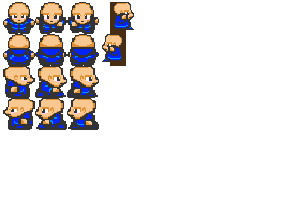
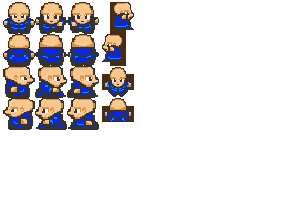
added some textures
ground floor isn't finished
if you find some mistakes please tell me so I can repair them/repair them yourself if you want

Changed region(s): [[0.3367, 0.3267, 0.4592, 0.6238]]

diff --git a/config.py b/config.py
@@ -17,7 +17,7 @@ BLOCK_LAYER: int = 2
 GROUND_LAYER: int = 1
 
 # Speeds
-PLAYER_SPEED: int = 10
+PLAYER_SPEED: int = 5
 NPC_SPEED: int = 3
 
 # Colors
@@ -94,29 +94,29 @@ ground_floor: List[str] = [
 first_floor: List[str] = [
     "______________________________________________________________________________________________________________________________________________________________________WWwwwWWWWWWWWWWWWWWWWWWWWWW",
     "______________________________________________________________________________________________________________________________________________________________________W......W..................W",
-    "______________________________________________________________________________________________________________________________________________________________________W......W....jjjjjjjjjjjjjjW",
+    "______________________________________________________________________________________________________________________________________________________________________W......W......ninininininiW",
     "______________________________________________________________________________________________________________________________________________________________________W......W..................w",
-    "______________________________________________________________________________________________________________________________________________________________________W......W....jjjjjjjjjjjjjjW",
+    "______________________________________________________________________________________________________________________________________________________________________W......W......ninininininiW",
     "______________________________________________________________________________________________________________________________________________________________________W......W..................W",
-    "______________________________________________________________________________________________________________________________________________________________________W......D....jjjjjjjjjjjjjjw",
+    "______________________________________________________________________________________________________________________________________________________________________W......D......ninininininiW",
     "______________________________________________________________________________________________________________________________________________________________________WWWDWWWWt.................W",
     "______________________________________________________________________________________________________________________________________________________________________w......WWWWDWWWWWWWWWWWWWWW",
     "______________________________________________________________________________________________________________________________________________________________________w......W..................w",
-    "WWWWWwwWWWWWWWWwwWWWWWWwWWWWWwWWWWWwWWWWWwWWWWWwwWWWWWWWwWwWwWWWWWWwwwWWWwwwWWWWWWwWWwWWwWWwWWwWWWWWWWWWWWWWWWWWWWWWWWWWWWWWWWWWWWWWWWWWWWWWWWWWWWWWWWWWWWWWWWWWWWWWWWW......W....jjjjjjjjjjjjjjW",
-    "W..........W........W.....W.....W.....W.....W!!!!!!!!!!!!!!!W...l..l..l..l..l..W...l..l..l..l....W................W...l..l..l..l..l..W.........W...l..l..l..l...W.....W......w..................w",
-    "W..........W........W.....W.....W.....W.....W!!!!!!!!!!!!!!!W...l..l..l..l..l..W...l..l..l..l..l.W................W...l..l..l..l..l..W.........W...l..l..l..l...W.....D......G....jjjjjjjjjjjjjjW",
-    "W..........W........W.....W.....W.....W.....W!!!!!!!!!!!!!!!W..................W...............l.W................W..................W.........W..............l.WDW...W......G..................w",
-    "W..........W........W.....W.....W.....W.....W!!!!!!!!!!!!!!!W..................W...............l.W................W..................W.........W..............l.W.W...W......w....jjjjjjjjjjjjjjW",
-    "w..........W........W.....W.....W.....W.....W!!!!!!!!!!!!!!!W..l..l..l..l..l...W..l..l..l..l...l.W................W....l..l..l..l....W.........W..l..l..l..l.l..WŤW...W......W..................W",
-    "w..........W........W.....W..l..W..l..W..l..WZZZZZZZrzzzzzzzW..l..l..l..l..l...W..l..l..l..l.....W................W....l..l..l..l....W.........W..l..l..l..l.l..WWWWWWW......WWWWWWWWWWWWWWWWWWWW",
-    "W..........W........W.....W.....W.....W.....WZZZZZZZrzzzzzzzW..................W.................W................W..................W.........W................W.....W......W.................Lw",
-    "W..........W........W.....W.....W.....W.....WZZZZZZZrzzzzzzzW..................W.................W................W..................W.........W................W.....W......D..................w",
-    "w..........W........W.....W.....W.....W.....WZZZZZZZrzzzzzzzW...l..l..l..l..l..W...l..l..l..l....W..N.............W..................W.........W................W.....W......W..................W",
-    "w..........W........W.....W.....W.....W.....WZZZZZZZrzzzzzzzW...l..l..l..l..l..W...l..l..l..l....W................W...l..l..l..l..l..W.........W...l..l..l..l...W.....W......WWWWWWWWWWWWWWWWWWWW",
-    "W..........W........W.....W.....W.....W.....WZZZZZZZrzzzzzzzW..................W.................D................W...l..l..l..l..l..W.........W...l..l..l..l...WWWWWWW..............sssssssssssW",
+    "WWWWWwwWWWWWWWWwwWWWWWWwWWWWWwWWWWWwWWWWWwWWWWWwwWWWWWWWwWwWwWWWWWWwwwWWWwwwWWWWWWwWWwWWwWWwWWwWWWWWWWWWWWWWWWWWWWWWWWWWWWWWWWWWWWWWWWWWWWWWWWWWWWWWWWWWWWWWWWWWWWWWWWW......W......mjmjmjmjmjmjW",
+    "W..........W........W.....W.....W.....W.....W!!!!!!!!!!!!!!!W..u..u..u..u..u...W...u..u..u..u....W................W...u..u..u..u.....W.........W...u..u..u..u...W.....W......w..................w",
+    "W..........W........W.....W.....W.....W.....W!!!!!!!!!!!!!!!W..u..u..u..u..u...W...u..u..u..u....W................W...u..u..u..u.....W.........W...u..u..u..u...W.....D......G......mjmjmjmjmjmjW",
+    "W..........W........W.....W.....W.....W.....W!!!!!!!!!!!!!!!W..................W.................W................W..................W.........W................WDW...W......G..................w",
+    "W..........W........W.....W.....W.....W.....W!!!!!!!!!!!!!!!W................k.W...............k.W................W...............k..W.........W..............k.W.W...W......w......mjmjmjmjmjmjW",
+    "w..........W........W.....W.....W.....W.....W!!!!!!!!!!!!!!!W..u..u..u..u..u.k.W...u..u..u..u..k.W................W...u..u..u..u..k..W.........W...u..u..u..u.k.WŤW...W......W..................W",
+    "w..........W........W.....W..l..W..l..W..l..WZZZZZZZrzzzzzzzW..u..u..u..u..u.l.W...u..u..u..u..l.W................W...u..u..u..u..l..W.........W...u..u..u..u.l.WWWWWWW......WWWWWWWWWWWWWWWWWWWW",
+    "W..........W........W.....W.....W.....W.....WZZZZZZZrzzzzzzzW..u..u..u..u..u.k.W...u..u..u..u..k.W................W...u..u..u..u..k..W.........W...u..u..u..u.k.W.....W......W.................Lw",
+    "W..........W........W.....W.....W.....W.....WZZZZZZZrzzzzzzzW................k.W...............k.W................W...............k..W.........W..............k.W.....W......D..................w",
+    "w..........W........W.....W.....W.....W.....WZZZZZZZrzzzzzzzW..................W.................W..N.............W..................W.........W................W.....W......W..................W",
+    "w..........W........W.....W.....W.....W.....WZZZZZZZrzzzzzzzW..u..u..u..u..u...W...u..u..u..u....W................W...u..u..u..u.....W.........W...u..u..u..u...W.....W......WWWWWWWWWWWWWWWWWWWW",
+    "W..........W........W.....W.....W.....W.....WZZZZZZZrzzzzzzzW..u..u..u..u..u...W...u..u..u..u....D................W...u..u..u..u.....W.........W...u..u..u..u...WWWWWWW..............sssssssssssW",
     "W..........W........W.....W.....W.....W.....WZZZZZZZrzzzzzzzW..................W.................W................W..................W.........W................W.....W..............sssssssssssW",
     "W..........W........W.....W.....W.....W.....WZZZZZZZrzzzzzzzW.................tWt................W...............tWt.................W.........W................W.....W.............PsssssssssssW",
-    "W..........WWWWWWWWWWWWDWWWWWDWWWWWDWWWWWDWWWZZZZZZZrzzzzzzzWWWWWWWWWWWWWWWWDWWWWWWWWWWWWWWWWDWWWWWWWWWWWWWWWDWWWWWWWWWWWWWWWWWWDWWWWWWWDWWWWWWWWWWWWWWWWWWDWWWWWWWWWWWt.............sssssssssssW",
+    "W..........WWWWWWWWWWWWDWWWWWDWWWWWDWWWWWDWWWZZZZZZZrzzzzzzzWWWWWWWWWWWWWWWWDWWWWWWWWWWWWWWWWDWWWWWWWWWWWWWWWDWWWWWWWWWWWWWWWWWWDWWWWWWWDWWWWWWWWWWWWWWWWWWWWDWWWWWWWWWt.............sssssssssssW",
     "W..........W.........................................................................................................................................................................RRRRRRRRRRRW",
     "w..........W.........................................................................................................................................................................SSSSSSSSSSSw",
     "w..........D.........................................................................................................................................................................SSSSSSSSSSSW",
@@ -129,8 +129,8 @@ first_floor: List[str] = [
     "w..........W..........W.....W...W...W...W...W..........................W......W.....Wo..............ÓW.....W.......W.......W.............W.............W...W..........l..l..l..l..l..l..l..WWWWWW",
     "w..........W..........W.....W...W...W...W...W..........................W......W.....Wo..............ÓW.....W.......W.......W.............W.............W...W..........l..l..l..l..l..l..l..W?????",
     "W..........W..........W.....W...W...W...W...W..........................W......W.....Wo.....................W.......W.......W.............W.............W...W...............................W?????",
-    "W..........W..........W.....W...W...W...W...W..........................W......W.....Wo.....................W.......W.......W.............W.............W...W...l...l..l..l..l..l..l..l..l..W?????",
-    "Wt.........W..........W.....W...W...W...W...W.........................tW......W.....WOOOOOOOOOOOOOOOOW.....W.......W.......W.............W.............W...Wt..l...l..l..l..l..l..l..l..l..W?????",
+    "W..........W..........W.....W...W...W...W...W..........................W......W.....Wo.....................W.......W.......W.............W.............W...W...u...l..l..l..l..l..l..l..l..W?????",
+    "Wt.........W..........W.....W...W...W...W...W.........................tW......W.....WOOOOOOOOOOOOOOOOW.....W.......W.......W.............W.............W...Wt..e...l..l..l..l..l..l..l..l..W?????",
     "WWWWWWWWWWWWWWWWWWWWWWWWWWWWWWwWWWwWWWwWWWwWWWWwwWWWwwWWWwwWWWwwWWWwwWWWWWwwWWWWwwwWWWWWwwwwWWwwwwWWwwwwWWWWWWwwwWWWWWwwwWWWWWWwwWWWwwWWWWWWWwwWWWWwwWWWWwWWWWwwWWWWwwWWWwwWWWWwwWWWWwwWWWWW?????",
 ]
 
@@ -138,44 +138,44 @@ first_floor: List[str] = [
 second_floor: List[str] = [
     "______________________________________________________________________________________________________________________________________________________________________WWwwwWWWWWWWWWWWWWWWWWWWWWW",
     "______________________________________________________________________________________________________________________________________________________________________W.........................W",
-    "______________________________________________________________________________________________________________________________________________________________________W......Wjjjjjjj....jjjjjjjW",
+    "______________________________________________________________________________________________________________________________________________________________________W......Wininini....inininiW",
     "______________________________________________________________________________________________________________________________________________________________________W.........................W",
-    "______________________________________________________________________________________________________________________________________________________________________W..................jjjjjjjW",
-    "______________________________________________________________________________________________________________________________________________________________________W......Wjjjjjjj...........W",
+    "______________________________________________________________________________________________________________________________________________________________________W..................inininiW",
+    "______________________________________________________________________________________________________________________________________________________________________W......Wininini...........W",
     "______________________________________________________________________________________________________________________________________________________________________W.........................W",
-    "______________________________________________________________________________________________________________________________________________________________________W..................jjjjjjjw",
-    "______________________________________________________________________________________________________________________________________________________________________W......Wjjjjjjj...........W",
+    "______________________________________________________________________________________________________________________________________________________________________W..................inininiw",
+    "______________________________________________________________________________________________________________________________________________________________________W......Wininini...........W",
     "______________________________________________________________________________________________________________________________________________________________________W.........................W",
-    "______________________________________________________________________________________________________________________________________________________________________W..................jjjjjjjw",
-    "______________________________________________________________________________________________________________________________________________________________________W......Wjjjjjjj...........W",
-    "______________________________________________________________________________________________________________________________________________________________________Wt...................jjjjjW",
+    "______________________________________________________________________________________________________________________________________________________________________W..................inininiw",
+    "______________________________________________________________________________________________________________________________________________________________________W......Wininini...........W",
+    "______________________________________________________________________________________________________________________________________________________________________Wt...................mmjmmW",
     "______________________________________________________________________________________________________________________________________________________________________w.........................w",
     "WWWWWwwWWWWWWWWwwWWWWWWwWWWWWwWWWWWwWWWWWwWWWWWwwWWWWWWWwWwWwWWWWWWwwwWWWwwwWWWWWWwWWwWWwWWwWWwWWWWWWWWWWWWWWWWWWWWWWWWWWWWWWWWWWWWWWWWWWWWWWWWWWWWWWWWWWWWWWWWWWWWWWWWWWDWWWWWWWWWWWWWWWWWWWWWWW",
-    "W..........W..l..l..l..l.W.l..l..l..l..l..l.W!!!!!!!!!!!!!!!W.l..l..l..l..l....W..l..l..l..l.....W................W..l..l..l..l......Wt........W.l..l..l..l.....W.....W......W..................W",
-    "Wjj........W..l..l..l..l.W.l..l..l..l..l..l.W!!!!!!!!!!!!!!!W.l..l..l..l..l....W..l..l..l..l.....W................W..l..l..l..l......W.........W.l..l..l..l.....WDW...D......W..................w",
-    "W........jjW.............W..................W!!!!!!!!!!!!!!!W..................W.................W................W..................W.........W................W.W...W......W..................w",
-    "wjj........W.............W..................W!!!!!!!!!!!!!!!W..................W.................W................W..................W.........W................WŤW...W......W..................W",
-    "W..........W..l..l..l....W.l..l..l..l..l....WZZZZZZZŔzzzzzzzW.l..l..l..l..l....W..l..l..l..l.....W................W..l..l..l..l......W.........W.l..l..l..l.....WWWWWWW......D..................w",
-    "wjj......jjW..l..l..l....W.l..l..l..l..l....WZZZZZZZŔzzzzzzzW.l..l..l..l..l....W..l..l..l..l.....W................W..l..l..l..l......W.........W.l..l..l..l.....W.....D......W..................W",
+    "W..........W..u..u..u..k.W.u..u..u..u..u..k.W!!!!!!!!!!!!!!!W.u..u..u..u..u.k..W..u..u..u..u..k..W................W..u..u..u..u...k..Wt........W.u..u..u..u..k..W.....W......W..................W",
+    "Wmm........W..u..u..u..l.W.u..u..u..u..u..l.W!!!!!!!!!!!!!!!W.u..u..u..u..u.l..W..u..u..u..u..l..W................W..u..u..u..u...l..W.........W.u..u..u..u..l..WDW...D......W..................w",
+    "W........mmW.............W..................W!!!!!!!!!!!!!!!W..................W.................W................W..................W.........W................W.W...W......W..................w",
+    "wmm........W.............W..................W!!!!!!!!!!!!!!!W..................W.................W................W..................W.........W................WŤW...W......W..................W",
+    "W..........W..u..u..u....W.u..u..u..u..u....WZZZZZZZŔzzzzzzzW.u..u..u..u..u....W..u..u..u..u.....W................W..u..u..u..u......W.........W.u..u..u..u.....WWWWWWW......D..................w",
+    "wmm......mmW..u..u..u....W.u..u..u..u..u....WZZZZZZZŔzzzzzzzW.u..u..u..u..u....W..u..u..u..u.....W................W..u..u..u..u......W.........W.u..u..u..u.....W.....D......W..................W",
     "w..........W.............W..................WZZZZZZZŔzzzzzzzW..................W.................W................W..................W.........W................W.....W......WWWWWWWWWWWWWWWWWWWW",
     "WWWWWWWWDWWW.............W..................WZZZZZZZŔzzzzzzzW..................W.................W................W..................W.........W................WWWWWWW..............sssssssssssW",
-    "W..........W..l..l..l....W.l..l..l..l..l....WZZZZZZZŔzzzzzzzW.l..l..l..l..l....W..l..l..l..l.....W................W..l..l..l..l......W.........W.l..l..l..l.....W.....W..............sssssssssssW",
-    "Wjjj.......W..l..l..l....W.l..l..l..l..l...tWZZZZZZZŔzzzzzzzW.l..l..l..l..l...tW..l..l..l..l....tW...............tW..l..l..l..l.....tW.........W.l..l..l..l.....W.... W.............PsssssssssssW",
+    "W..........W..u..u..u....W.u..u..u..u..u....WZZZZZZZŔzzzzzzzW.u..u..u..u..u....W..u..u..u..u.....W................W..u..u..u..u......W.........W.u..u..u..u.....W.....W..............sssssssssssW",
+    "Wmmm.......W..u..u..u....W.u..u..u..u..u...tWZZZZZZZŔzzzzzzzW.u..u..u..u..u...tW..u..u..u..u....tW...............tW..u..u..u..u.....tW.........W.u..u..u..u.....W.... W.............PsssssssssssW",
     "W..........WWWWWWWWWWWWDWWWWWWWWWWWWWWWWWDWWWŘŘŘŘŘŘŘŕzzzzzzzWWWWWWWWWWWWWWWWDWWWWWWWWWWWWWWWWDWWWWwwwwwwwwwwGGwwwwWWWWWWWWWWWWWWDWWWWWWWWWDWWWWWWWWWWWWWWWWWWDWWWWWWWWWt.............sssssssssssW",
     "W..........W.........................................................................................................................................................................RRRRRRRRRRRW",
-    "wjj.....jj.W.........................................................................................................................................................................SSSSSSSSSSSw",
+    "wjjj...jjj.W.........................................................................................................................................................................SSSSSSSSSSSw",
     "w..........D.........................................................................................................................................................................SSSSSSSSSSSW",
     "W..........W.........................................................................................................................................................................SSSSSSSSSSSw",
-    "Wjj.....jj.W.........................................................................................................................................................................SSSSSSSSSSSW",
+    "Wjjj...jjj.W.........................................................................................................................................................................SSSSSSSSSSSW",
     "w..........WWWWWDWWWWWWWWWWWWWWWWWWWDWWWDWWWWW....................WWWDWWWWWWDWWWWWDWWWWWWWWWWDWWWWWDWWWWWWWWWWDWWWWWWDWWWWWWWWWWWWWWWWWWWWWDWWWWWWWWWWWWWWWWWWDWWWWWWWWWWWWWWWWWWWWWWWWWWWWWWWWWW",
     "w..........W......l..l..l..l..l..W....W..WTWTW...................!W......W.....W.........W.......W......W.........W.....l..l..l..l...W......l..l..l..l...W.........l..l..l..l..l..l..l.....W....W",
-    "Wjj.....jj.W......l..l..l..l..l..W....W..W.W.W....................W......W.....W.........W.......W......W.........W.....l..l..l..l...W......l..l..l..l...W.........l..l..l..l..l..l..l.....D....W",
+    "Wjjj...jjj.W......l..l..l..l..l..W....W..W.W.W....................W......W.....W.........W.......W......W.........W.....l..l..l..l...W......l..l..l..l...W.........l..l..l..l..l..l..l.....D....W",
     "W..........W.....................W....W..WDWDW....................W......W.....W.........W.......W......W.........W..................W...................W.................................W....W",
     "w..........W.....................W....W......W.!....!.....!.....!.W......W.....W.........W.......W......W.........W..................W...................W.................................WWWWWW",
-    "wjj.....jj.W.......l..l..l..l....W....W......W.!....!.....!.....!.W......W.....W.........W.......W......W.........W..................W...................W.................................W?????",
+    "wjjj...jjj.W.......l..l..l..l....W....W......W.!....!.....!.....!.W......W.....W.........W.......W......W.........W..................W...................W.................................W?????",
     "w..........W.......l..l..l..l....W....W......W.!....!.....!.....!.W......W.....W.........W.......W......W.........W..................W...................W.N...............................W?????",
-    "W..........W..l..................W....W......W.!!!!!.......!!!!!..W......W.....W.........W.......W......W.........W.....l..l..l..l...W....l..l..l..l..l..W...l.....l..l..l..l..l..l..l.....W?????",
-    "Wt.........W..l..................W....W......W...................tW......W.....W.........W.......W......W.........W.....l..l..l..l...W....l..l..l..l..l..W...l.....l..l..l..l..l..l..l..WWWW?????",
+    "W..........W..k..................W....W......W.!!!!!.......!!!!!..W......W.....W.........W.......W......W.........W.....l..l..l..l...W....l..l..l..l..l..W...u.....l..l..l..l..l..l..l.....W?????",
+    "Wt.........W..k..................W....W......W...................tW......W.....W.........W.......W......W.........W.....l..l..l..l...W....l..l..l..l..l..W...e.....l..l..l..l..l..l..l..WWWW?????",
     "WWWWwwWWWWWWWWwwWWWWWWWWWWWWWWwWWWWWwWWWWWwWWWWwwWWWwwWWWwwWWWwwWWWwwWWWWWWwWWWWWwwWWWwwwWWWwwWwWWwwwwWWWWWWwwwWWWWWwwwWWWWWWwwWWWwwWWWWWWWwwWWWWwwWWWWwWWWWwwWWWWwwWWWwwWWWWwwWWWwwWWWWWWWW?????",
 ]
 
@@ -213,17 +213,17 @@ third_floor: List[str] = [
 
 # Fourth floor
 fourth_floor: List[str] = [
-    "WWWWWWWWWWWWWwwWWWWwwwWWwwwWWwwwWWwwwWWwwwWWwwwWWwwwWWWWWWwwwWWWWWWWWWWWWWWWWWWWWWWW",
-    "W..........W.!jj!....jjjjjjjjjjjjjjjjjjjjjjjjjjj..l...W.........W..................W",
-    "W..........W.l..l.................................g...W.........W..................W",
-    "W..........W.!jj!.....................................W.........W..................W",
-    "W..........D..........................................W.........W..................W",
-    "W..........W.........jjjjjjjjjjjjjjjjjjjjjjjjjjjjj....D.........W..................W",
-    "WWWWWWWWWWWWWWWWWWWWWWWWWWWWWWWWWWWWWWWWWWWWWWWWWWWWWWW.........W..................W",
+    "?????????WWWWWWWWWWWWWwwWWWWwwwwWWwwwWWwwwWWwwwWWwwwWWWWWWwwwWWWWWWWWWWWWWWWWWWWWWWW",
+    "?????????W..........W.!m!.....jmjmjmjmjmjmjmjmjmj.k...W.........W..................W",
+    "?????????W..........W.k.k.........................g...W.........W..................W",
+    "?????????W..........W.!m!.............................W.........W..................W",
+    "?????????W..........D.................................W.........W..................W",
+    "?????????W..........W.........ininininininininini.....D.........W..................W",
+    "?????????WWWWWWWWWWWWWWWWWWWWWWWWWWWWWWWWWWWWWWWWWWWWWW.........W..................W",
     "??????????????????????????????????????????????????????Wt........WWWWDWWWWWWWWWWWWWWW",
     "??????????????????????????????????????????????????????W........D........sssssssssssW",
     "??????????????????????????????????????????????????????WWWWWWWWW.........sssssssssssW",
-    "??????????????????????????????????????????????????????Wjjjjjjjj........PsssssssssssW",
+    "??????????????????????????????????????????????????????Whhhhhhhh........PsssssssssssW",
     "??????????????????????????????????????????????????????WB................sssssssssssW",
     "??????????????????????????????????????????????????????WB................|//////////W",
     "??????????????????????????????????????????????????????WB................ř!!!!!!!!!!w",
@@ -232,13 +232,13 @@ fourth_floor: List[str] = [
     "??????????????????????????????????????????????????????Wt................ř!!!!!!!!!!W",
     "??????????????????????????????????????????????????????WWWWWWWWDWWWWWWWWWWWWWWWWWWWWW",
     "??????????????????????????????????????????????????????W........l..l..l..l..l..l...!W",
-    "??????????????????????????????????????????????????????W........l..l..l..l..l..l...!W",
+    "??????????????????????????????????????????????????????W........k..k..k..k..k..k...!W",
     "??????????????????????????????????????????????????????W........l..l..l..l..l..l....W",
-    "??????????????????????????????????????????????????????W....l.......................W",
-    "??????????????????????????????????????????????????????W..N.l......................!W",
-    "??????????????????????????????????????????????????????W....l......................!W",
-    "??????????????????????????????????????????????????????W....l...l..l..l..l..l..l....W",
-    "??????????????????????????????????????????????????????W....!...l..l..l..l..l..l....W",
+    "??????????????????????????????????????????????????????W....k.......................W",
+    "??????????????????????????????????????????????????????W..N.k......................!W",
+    "??????????????????????????????????????????????????????W....k......................!W",
+    "??????????????????????????????????????????????????????W....k...l..l..l..l..l..l....W",
+    "??????????????????????????????????????????????????????W....!...k..k..k..k..k..k....W",
     "??????????????????????????????????????????????????????W....!...l..l..l..l..l..l....W",
     "??????????????????????????????????????????????????????WWwWWwwwWWwwwWWwwwWWwwwWWwwwWW"
 ]

diff --git a/sprites.py b/sprites.py
@@ -113,7 +113,8 @@ class Player(pygame.sprite.Sprite):
         if self.player_sitting:
             self.rect.x = self.x_change
             self.rect.y = self.y_change
-            self.image = self.game.character_spritesheet.get_sprite(102, 2, self.width, self.height) if self.facing != "right" else self.game.character_spritesheet.get_sprite(102, 34, self.width, self.height)
+            if self.facing in ("right", "left"): self.image = self.game.character_spritesheet.get_sprite(102, 34, self.width, self.height) if self.facing == "right" else self.game.character_spritesheet.get_sprite(102, 2, self.width, self.height)
+            else: self.image = self.game.character_spritesheet.get_sprite(102, 66, self.width, self.height) if self.facing == "up" else self.game.character_spritesheet.get_sprite(102, 98, self.width, self.height)
 
         # Not sitting
         else: 
@@ -530,7 +531,7 @@ class Block(pygame.sprite.Sprite):
         """
 
         # Interactible blocks
-        inter = ["L", "Ľ", "ľ", "D", "G", "B", "t", "T", "Ť", "S", "Z", "s", "z", "b", "d", "O", "o", "ó", "Ó", "ĺ", "y", "Y", "g", "w"]
+        inter = ["L", "Ľ", "ľ", "D", "G", "B", "h", "t", "T", "Ť", "S", "Z", "s", "z", "b", "d", "O", "o", "ó", "Ó", "ĺ", "y", "Y", "g", "w"]
 
         self.game = game
         self._layer = BLOCK_LAYER
@@ -558,6 +559,7 @@ class Block(pygame.sprite.Sprite):
         elif type == "D": self.image = self.game.terrain_spritesheet.get_sprite(104, 36, self.width, self.height)
         elif type == "G": self.image = self.game.terrain_spritesheet.get_sprite(172, 104, self.width, self.height)
         elif type == "B": self.image = self.game.terrain_spritesheet.get_sprite(2, 70, self.width, self.height)
+        elif type == "h": self.image = self.game.terrain_spritesheet.get_sprite(274, 70, self.width, self.height)
         elif type == "t": self.image = self.game.terrain_spritesheet.get_sprite(36, 70, self.width, self.height)
         elif type == "T": self.image = self.game.terrain_spritesheet.get_sprite(2, 104, self.width, self.height)
         elif type == "Ť": self.image = self.game.terrain_spritesheet.get_sprite(36, 104, self.width, self.height)
@@ -565,8 +567,11 @@ class Block(pygame.sprite.Sprite):
         elif type == "Ŕ": self.image = self.game.terrain_spritesheet.get_sprite(206, 36, self.width, self.height)
         elif type == "ŕ": self.image = self.game.terrain_spritesheet.get_sprite(206, 70, self.width, self.height)
         elif type == "r": self.image = self.game.terrain_spritesheet.get_sprite(172, 2, self.width, self.height)
-        elif type == "l": self.image = self.game.terrain_spritesheet.get_sprite(240, 104, self.width, self.height)
+        elif type == "l": self.image = self.game.terrain_spritesheet.get_sprite(241, 104, self.width, self.height)
+        elif type == "k": self.image = self.game.terrain_spritesheet.get_sprite(241, 138, self.width, self.height)
         elif type == "ĺ": self.image = self.game.terrain_spritesheet.get_sprite(240, 104, self.width, self.height)
+        elif type == "u": self.image = self.game.terrain_spritesheet.get_sprite(241, 172, self.width, self.height)
+        elif type == "e": self.image = self.game.terrain_spritesheet.get_sprite(274, 172, self.width, self.height)
         elif type == "Ř": self.image = self.game.terrain_spritesheet.get_sprite(138, 36, self.width, self.height)
         elif type == "ř": self.image = self.game.terrain_spritesheet.get_sprite(70, 70, self.width, self.height)
         elif type == "b": self.image = self.game.terrain_spritesheet.get_sprite(138, 70, self.width, self.height)
@@ -575,13 +580,16 @@ class Block(pygame.sprite.Sprite):
         elif type == "J": self.image = self.game.terrain_spritesheet.get_sprite(2, 138, self.width, self.height)
         elif type == "U": self.image = self.game.terrain_spritesheet.get_sprite(36, 138, self.width, self.height)
         elif type == "j": self.image = self.game.terrain_spritesheet.get_sprite(206, 104, self.width, self.height)
+        elif type == "m": self.image = self.game.terrain_spritesheet.get_sprite(274, 104, self.width, self.height)
+        elif type == "i": self.image = self.game.terrain_spritesheet.get_sprite(274, 138, self.width, self.height)
+        elif type == "n": self.image = self.game.terrain_spritesheet.get_sprite(274, 36, self.width, self.height)
         elif type == "/": self.image = self.game.terrain_spritesheet.get_sprite(241, 70, self.width, self.height)
         elif type == "|": self.image = self.game.terrain_spritesheet.get_sprite(241, 36, self.width, self.height)
         elif type == "O": self.image = self.game.terrain_spritesheet.get_sprite(138, 138, self.width, self.height)
         elif type == "o": self.image = self.game.terrain_spritesheet.get_sprite(172, 138, self.width, self.height)
         elif type == "ó": self.image = self.game.terrain_spritesheet.get_sprite(70, 138, self.width, self.height)
         elif type == "Ó": self.image = self.game.terrain_spritesheet.get_sprite(104, 138, self.width, self.height)
-        elif type == "y": self.image = self.game.terrain_spritesheet.get_sprite(240, 2, self.width, self.height)
+        elif type == "y": self.image = self.game.terrain_spritesheet.get_sprite(241, 2, self.width, self.height)
         elif type == "Y": self.image = self.game.terrain_spritesheet.get_sprite(274, 2, self.width, self.height)
         elif type == "g": self.image = self.game.terrain_spritesheet.get_sprite(206, 138, self.width, self.height)
 
@@ -707,7 +715,8 @@ class Interact(pygame.sprite.Sprite):
                     elif self.interactive[hits[0]] in ("L" + str(i) + str(j), "Ľ" + str(i) + str(j), "ľ" + str(i) + str(j)): self.game.interacted = ["Locker", i, j]; print(j, i)
 
                     # Bench
-                    elif self.interactive[hits[0]] == "B" + str(i) + str(j): self.game.interacted = ["Bench", hits[0].rect.left, hits[0].rect.top]
+                    elif self.interactive[hits[0]] in ("B" + str(i) + str(j)): self.game.interacted = ["Bench", hits[0].rect.left, hits[0].rect.top]
+                    elif self.interactive[hits[0]] in ("h" + str(i) + str(j)): self.game.interacted = ["BencH", hits[0].rect.left, hits[0].rect.top]
 
                     # Stairs
                     elif self.interactive[hits[0]] in ("S" + str(i) + str(j), "Z" + str(i) + str(j)): self.game.interacted = ["Stairs_up", i, j]; print(j, i)

diff --git a/main.py b/main.py
@@ -177,14 +177,21 @@ class Game:
                 elif column == "z": self.interactive[Block(self, j, i, "z")] = "z" + str(i) + str(j) # Stairs down
                 elif column == "D": self.interactive[Block(self, j, i, "D")] = "D" + str(i) + str(j) # Door
                 elif column == "G": self.interactive[Block(self, j, i, "G")] = "G" + str(i) + str(j) # Glass door
-                elif column == "B": self.interactive[Block(self, j, i, "B")] = "B" + str(i) + str(j) # Bench
+                elif column == "B": self.interactive[Block(self, j, i, "B")] = "B" + str(i) + str(j) # Bench (vertical)
+                elif column == "h": self.interactive[Block(self, j, i, "h")] = "h" + str(i) + str(j) # Bench (horizontal)
                 elif column == "y": self.interactive[Block(self, j, i, "y")] = "y" + str(i) + str(j) # Benchpress
                 elif column == "Y": self.interactive[Block(self, j, i, "Y")] = "Y" + str(i) + str(j) # Benchpress with dumbbells
-                elif column == "l": self.interactive[Block(self, j, i, "l")] = "l" + str(i) + str(j) # Desk
-                elif column == "ĺ": self.interactive[Block(self, j, i, "ĺ")] = "ĺ" + str(i) + str(j) # Desk
+                elif column == "l": self.interactive[Block(self, j, i, "l")] = "l" + str(i) + str(j) # Desk + chair (vertical) left
+                elif column == "k": self.interactive[Block(self, j, i, "k")] = "k" + str(i) + str(j) # Desk no chair (vertical) left
+                elif column == "ĺ": self.interactive[Block(self, j, i, "ĺ")] = "ĺ" + str(i) + str(j) # Desk special (vertical)
+                elif column == "u": self.interactive[Block(self, j, i, "u")] = "u" + str(i) + str(j) # Desk + chair (vertical) right
+                elif column == "e": self.interactive[Block(self, j, i, "e")] = "e" + str(i) + str(j) # Desk no chair (vertical) right
                 elif column == "U": self.interactive[Block(self, j, i, "U")] = "U" + str(i) + str(j) # LCUJ Desk
                 elif column == "J": self.interactive[Block(self, j, i, "J")] = "J" + str(i) + str(j) # LCUJ Desk
-                elif column == "j": self.interactive[Block(self, j, i, "j")] = "j" + str(i) + str(j) # Horizontal Desk
+                elif column == "j": self.interactive[Block(self, j, i, "j")] = "j" + str(i) + str(j) # Desk + chair (horizontal) up
+                elif column == "m": self.interactive[Block(self, j, i, "m")] = "m" + str(i) + str(j) # Desk no chair (horizontal) up
+                elif column == "i": self.interactive[Block(self, j, i, "i")] = "i" + str(i) + str(j) # Desk + chair (horizontal) down
+                elif column == "n": self.interactive[Block(self, j, i, "n")] = "n" + str(i) + str(j) # Desk no chair (horizontal) down
                 elif column == "t": self.interactive[Block(self, j, i, "t")] = "t" + str(i) + str(j) # Trashcan
                 elif column == "T": self.interactive[Block(self, j, i, "T")] = "T" + str(i) + str(j) # Toilet
                 elif column == "Ť": self.interactive[Block(self, j, i, "Ť")] = "Ť" + str(i) + str(j) # Toilet
@@ -1233,10 +1240,10 @@ class Game:
         elif self.player.facing == "right" and self.interacted[2] == 166 and self.interacted[1] == 12: self.door_info("Hall", "Hall"); self.center_player_after_doors()
         
         # Hall -> 117
-        elif self.player.facing == "up" and self.interacted[2] == 155 and self.interacted[1] == 24: self.door_info("117 - III.B", "117"); self.center_player_after_doors()
+        elif self.player.facing == "up" and self.interacted[2] == 157 and self.interacted[1] == 24: self.door_info("117 - III.B", "117"); self.center_player_after_doors()
         
         # 117 -> Hall
-        elif self.player.facing == "down" and self.interacted[2] == 155 and self.interacted[1] == 24: self.door_info("Hall", "Hall"); self.center_player_after_doors()
+        elif self.player.facing == "down" and self.interacted[2] == 157 and self.interacted[1] == 24: self.door_info("Hall", "Hall"); self.center_player_after_doors()
         
         # Hall -> 115
         elif self.player.facing == "up" and self.interacted[2] == 128 and self.interacted[1] == 24: self.door_info("115 - IV.SB", "115"); self.center_player_after_doors()
@@ -1676,8 +1683,8 @@ class Game:
         """
         Sitting on the bench
         """
-        
-        if self.player.facing not in ("up", "down"):
+
+        if self.interacted[0] == "Bench" and self.player.facing in ("right", "left") or self.interacted[0] == "BencH" and self.player.facing in ("up", "down"):
             self.player.sit(True, self.interacted[1], self.interacted[2])
             self.update()
             self.draw()

diff --git a/camera.py b/camera.py
@@ -164,9 +164,9 @@ class Camera:
             # OUC
             case "117": 
                 for sprite in self.game.all_sprites:
-                    sprite.rect.x -= 145 * TILE_SIZE
+                    sprite.rect.x -= 147 * TILE_SIZE
                     sprite.rect.y -= 16 * TILE_SIZE
-                self.game.player.rect.x -= 25 * TILE_SIZE     
+                self.game.player.rect.x -= 23 * TILE_SIZE     
 
             # OUB          
             case "115": 
